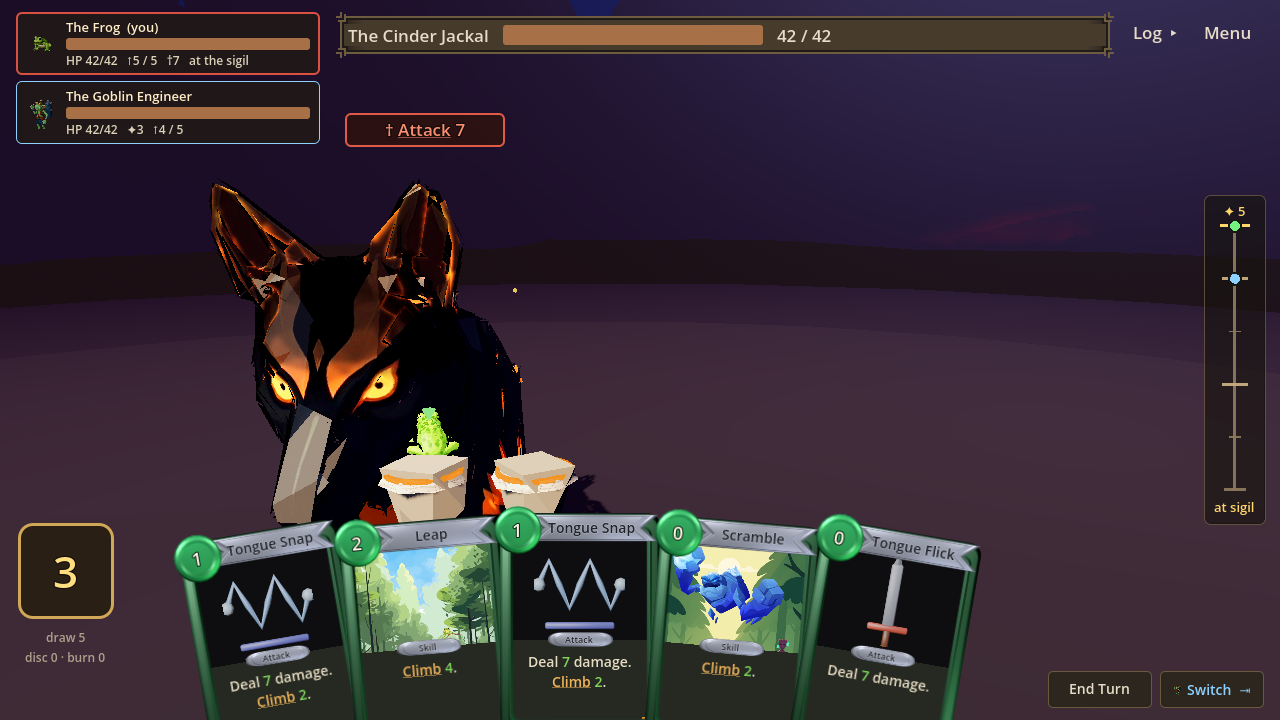
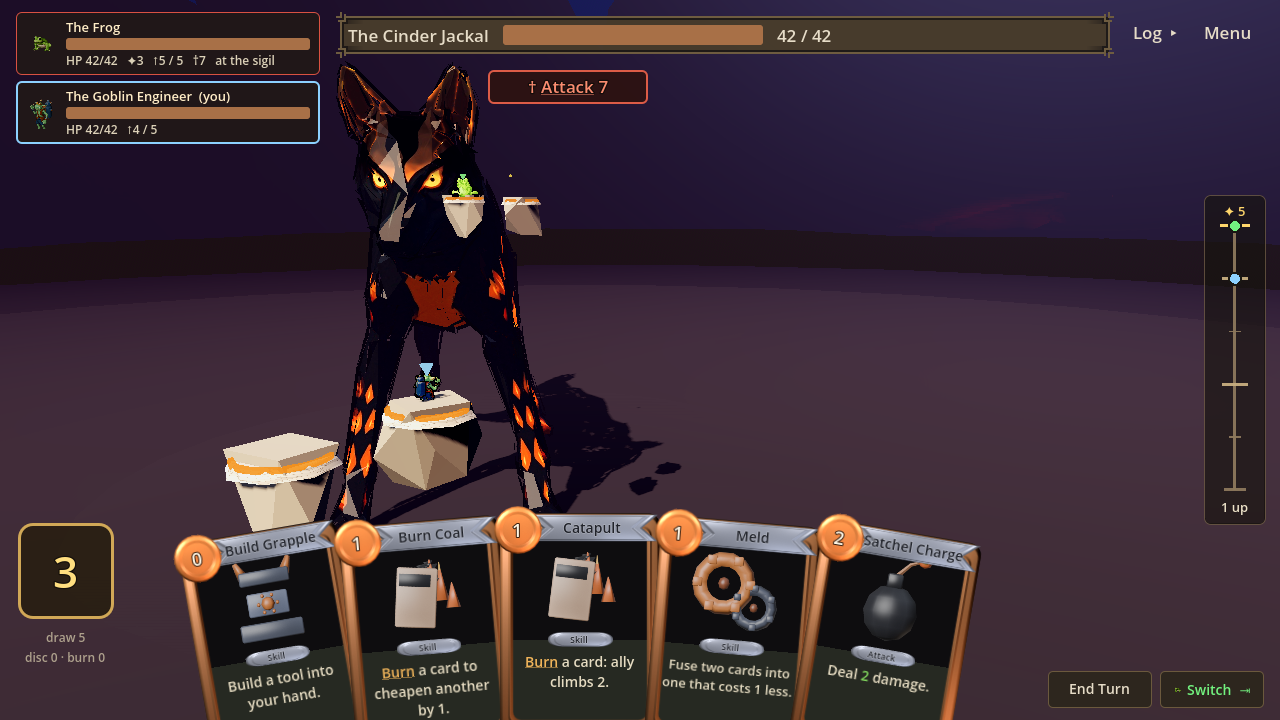
builder: hull built before the decorative stones, hops land on the stone
_show_beast ran _build_float_stones() before _build_hull(), so the stone's
_top_hold() -> _front_of_beast() call always saw an empty _hull and fell
back to the box's raw far edge, while _stand_on_model (called later, from
_place_hunters, once the hull is real) read the true value -- two different
numbers for the same rung, growing with how close the rung sat to the top.
Swapped the two calls.

diff --git a/design/plan/BUILDER-QUEUE.md b/design/plan/BUILDER-QUEUE.md
@@ -97,7 +97,7 @@ run failed.
       reads like a yaw problem, out of this item's scope (clearance + pitch
       only); stopped rather than tune a third constant. See the proposed
       item below.
-- [ ] **Hops land on stones, not in the air — mid-route.** The builder's
+- [?] **Hops land on stones, not in the air — mid-route.** The builder's
       16:43 pass fixed the top hold only. Measured 2026-09-25 17:05 EDT with
       `state=3dclimb slot=1` (the harness now prints STONE/HUNTER/RUNGS lines):
       hunter1 at foot 4 has home z 30.71, its stone (STONE8) is at z 33.33:
@@ -110,6 +110,23 @@ run failed.
       Done-when: HUNTER home == its STONE world position within 0.1 on every
       rung, printed by the harness, and a `run_tests.gd` case on the shared
       rule. Shot: `state=3dclimb slot=1`, Goblin's feet on a stone.
+      **Builder, 2026-09-25 17:15 EDT:** both suspects were wrong; the real
+      cause was `_show_beast`'s own call order. It ran `_build_float_stones()`
+      BEFORE `_build_hull()`, so the stone's `_top_hold()` -> `_front_of_beast()`
+      call always saw an empty `_hull` and fell back to the box's raw far
+      edge, while `_stand_on_model` (called later, from `_place_hunters`, once
+      the hull is real) got the true value — two different numbers for the
+      same rung, growing with how close the rung sat to the top (matches the
+      measured 0.84 vs 2.62). Swapped the two calls. Live on `cinder_jackal`,
+      `state=3dclimb slot=1`: HUNTER0 home z=16.577120, its stone z=17.412895
+      -> now 16.577118 (was 0.84 off, now 0.00); HUNTER1 home z=30.710747, its
+      stone z=33.326931 -> now 30.710747 (was 2.62 off, now 0.00). Frame
+      confirmed changed (Goblin now stands ON the boulder, not floating past
+      it) with an md5 check against HEAD, not just eyeballed — see the Found
+      line below on why that check mattered this run. New `run_tests.gd` case
+      builds a fake mesh, calls `_build_hull()`/`_build_float_stones()` in the
+      wrong order to confirm it fails (9.31 apart), then the right order to
+      confirm it passes (0.00 apart).
 - [ ] **Hunters face the beast.** Nick, 2026-09-25 14:35 EDT: "want the
       characters to face the beast." In the frame the Frog and Goblin stand
       side-on to the camera. At rest, after End Turn, after Switch, both
@@ -253,3 +270,25 @@ Non-quadrupeds need a new body plan in `ai_beast.py`; ask first.
       before this run's fix, so this may be a real second bug or may just be
       a hard-to-read camera angle; worth a dedicated look with a render zoomed
       on that hunter before assuming either way.
+      **Builder, 2026-09-25 17:15 EDT:** with the hull-order fix, hunter1 in
+      `state=3dclimb slot=1` now stands visibly ON its own stone (the AFTER
+      frame on this same run's item, above) — looked resolved, but not
+      re-measured at THIS specific mid-route height, so leaving this open
+      rather than closing it myself.
+- [ ] (proposed) `tools/shot.cmd`, run with a RELATIVE `out=` path from a shell
+      whose working directory isn't the repo root (confirmed with the Bash
+      tool, which runs Git Bash under Windows), fails to save: Godot logs
+      `ERROR: Can't save PNG at path: '<relative path>'` from `img.save_png()`
+      at `screenshot.gd`'s `_capture()`, but the very next line unconditionally
+      prints `SHOT SAVED: <path> (WxH)` regardless of whether the save actually
+      happened — there is no check on `save_png`'s return value (`Error`, 0 on
+      success). This run's first before/after pair silently reused an already-
+      committed frame from an earlier commit (same path, save failed both
+      times, old bytes never touched) and only an `md5sum` against `git show
+      HEAD:<path>` caught it — eyeballing the "before"/"after" images looked
+      convincing because they WERE real images, just not from this run. An
+      absolute `out=` path (e.g. `G:/ts-builder/design/...`) saves correctly.
+      Fix: `_capture()` should check `img.save_png(_out)`'s return value and
+      print an actual error (or refuse to print "SHOT SAVED") on failure, so
+      a future run can't ship a stale frame as proof without an extra hash
+      check nobody is required to run.

diff --git a/design/agents/status/builder.md b/design/agents/status/builder.md
@@ -2,8 +2,8 @@
 tags:
   - agent-status
 agent: builder
-updated: 2026-09-25T16:43
-working_on: "hops-on-stones top-hold fix handed to Nick"
+updated: 2026-09-25T17:15
+working_on: "hops-on-stones mid-route hull-order fix handed to Nick"
 ---
 
 # builder
@@ -13,18 +13,18 @@ The one lane that builds. Queue: [[../../plan/BUILDER-QUEUE]]. Brief:
 
 ## This run
 
-2026-09-25 16:43 EDT
+2026-09-25 17:15 EDT
 
-- **Did:** the sigil's top hold now uses each hunter's fixed route side, so a lone climber lands on their own stone.
-- **Worked?** Yes — `state=3dclimb`'s Frog now stands on the stone crate in front of the jackal's face, not floating past it at eye level.
+- **Did:** `_show_beast` built the decorative stones before the hull existed; swapped the order so both read the same hull.
+- **Worked?** Yes — `state=3dclimb slot=1`'s Goblin now stands on the boulder by the jackal's leg instead of floating beside it; HUNTER/STONE z now match within 0.1 on every rung checked (were 0.84–2.62 off).
 - **Look at:** ![[frames/builder/2026-09-25-hops-on-stones-before.png]] then ![[frames/builder/2026-09-25-hops-on-stones-after.png]]
-- **Ask:** should mid-route footing (state=3dgrip's second hunter) get its own look next?
-- **Found:** `_stand_on_model`'s `side` parameter is now unused inside the function (the top branch was its only reader) — dead but harmless; left alone rather than reshape three call sites for a naming ticket.
-- **Found:** `state=3dgrip`'s own shot didn't move — hunter0 lands on the ground after the grip fall (no stone needed there) and hunter1 sits at a non-top rung, so neither exercises the branch this run touched.
-- **Found:** checked hunter1 (mid-route, weak_point_height-1) with `slot=1`: stands near the jackal's front leg, not obviously centred on its own decorative stone — worth a closer look, not confirmed broken.
+- **Ask:** nothing.
+- **Found:** `tools/shot.cmd` invoked with a RELATIVE `out=` path silently fails to save (`img.save_png` errors, but the harness prints "SHOT SAVED" anyway) when the process isn't launched from the repo root — this session's first before/after pair was actually just recycled bytes from an already-committed frame, caught only by an md5 check against HEAD. An absolute `out=` path saves correctly. Worth a fix in `screenshot.gd` (check `save_png`'s return code) so a future run can't ship a silently-stale frame as proof.
+- **Found:** `_stand_on_model`'s `side` parameter is still unused inside the function (noted by the prior run, still true, still harmless).
 
 ## Log
 
+- 2026-09-25 17:15 EDT — builder: hull built before the decorative stones, so mid-route hunters land on their own stone; built, tested, pushed.
 - 2026-09-25 16:43 EDT — builder: sigil top hold uses each hunter's own route side, not the shared-foothold nudge; built, tested, pushed.
 - 2026-09-25 16:31 EDT — session: top hold in front of the face, sigil shot lands; pushed.
 
